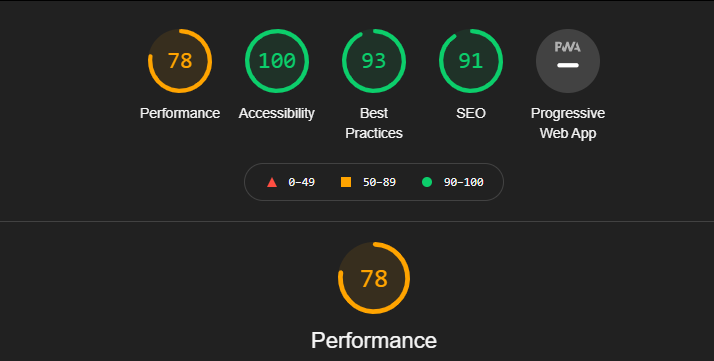
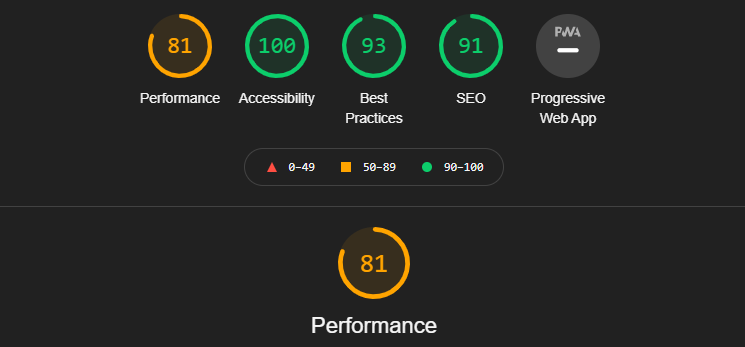
Added file to screenshots folder

diff --git a/index.html b/index.html
@@ -2,7 +2,7 @@
 <html lang="en">
 <head>
     <meta charset="UTF-8">
-    <meta name="viewport" content="width=device-width, initial-scale=1.0">
+    <meta name="viewport" content="width=device-width, initial-scale=1.0" description="A project for Code Institute's Full Stack Software Development Diploma">
     <link rel="stylesheet" href="https://cdnjs.cloudflare.com/ajax/libs/hover.css/2.1.1/css/hover-min.css" integrity="sha512-SJw7jzjMYJhsEnN/BuxTWXkezA2cRanuB8TdCNMXFJjxG9ZGSKOX5P3j03H6kdMxalKHZ7vlBMB4CagFP/de0A==" crossorigin="anonymous" />
     <link rel="stylesheet" href="https://use.fontawesome.com/releases/v5.15.3/css/all.css" integrity="sha384-SZXxX4whJ79/gErwcOYf+zWLeJdY/qpuqC4cAa9rOGUstPomtqpuNWT9wdPEn2fk" crossorigin="anonymous">
     <link rel="stylesheet" href="assets/style.css">

diff --git a/documentation/TESTING.md b/documentation/TESTING.md
@@ -123,6 +123,9 @@ INITIAL TESTING - DESKTOP
 ![](/documentation/screenshots/performance-desktop.png)
 * Desktop: On desktop screens, the performance was at 95%, which was brought down from 100% by issues that I do not currently have the skill to understand, but in the future I will amend these issues.
 
+![](/documentation/screenshots/performance-mobile.png)
+* Mobile: On mobile screens, the performance was quite badly affected by 
+
 [Back to top](https://github.com/lmw95/stayverticalpolestudio/blob/master/documentation/TESTING.md/#testing)
 
 ## SEO 
